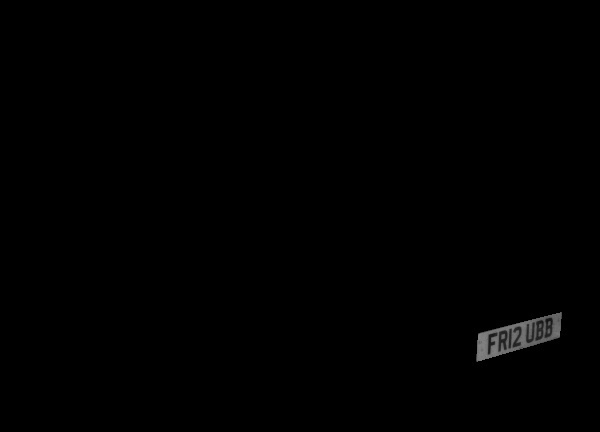
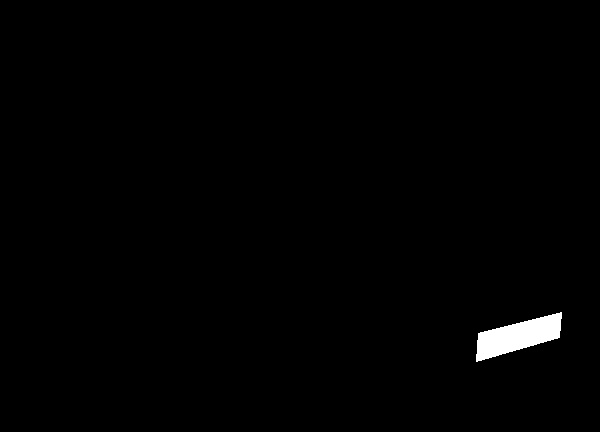
Renaming object_detection.py to feature_detection.py

Changed region(s): [[0.78, 0.7222, 0.96, 0.8426]]

diff --git a/feature_detection.py b/feature_detection.py
@@ -14,5 +14,11 @@ class NumberPlateDataset(object):
         self.masks = list(sorted(os.listdir(os.path.join(root, "./Data/Label"))))
 
     def __getitem__(self, idx):
-        img_path = os.path.join(self.root, "./Data/Image/")
-        mask_path = os.path.join(self.root, "./Data/Label/")
+        img_path = os.path.join(self.root, "./Data/Image/", self.imgs[idx])
+        mask_path = os.path.join(self.root, "./Data/Label/", self.masks[idx])
+        
+        mask = Image.open(mask_path)
+        mask = np.array(mask)
+
+        obj_id = np.unique(mask)
+
